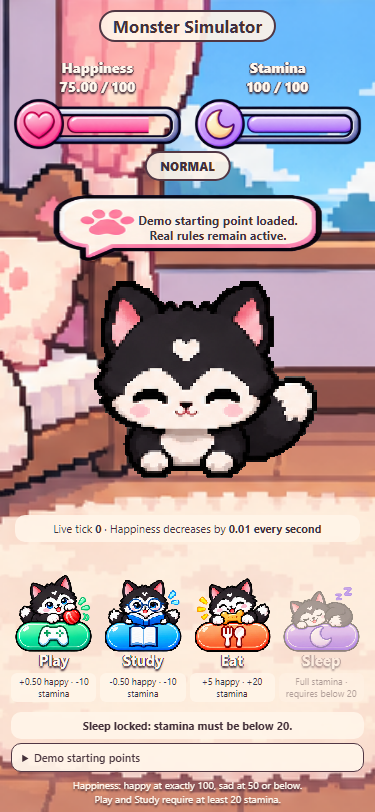
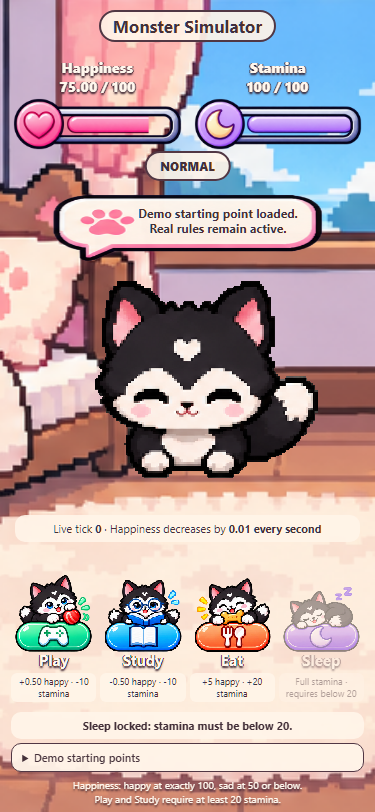
fix(ui): center speech text inside the bubble panel

diff --git a/style.css b/style.css
@@ -3,3 +3,5 @@
 details[open]{bottom:auto;top:43%;max-height:23%;overflow:auto}
 
 #pet{top:28%;height:33%}.decay{top:auto;bottom:270px}.actions small{background:#fff4e8e8;color:#443039;text-shadow:none;border-radius:6px;padding:2px;font-size:9px}#bubble{padding-left:78px}
+
+#bubble{padding-top:12px;padding-bottom:26px;text-align:center;justify-content:center;align-items:center;overflow-wrap:anywhere}

diff --git a/TODO.md b/TODO.md
@@ -9,3 +9,5 @@
 
 - [x] Match PocketPet layout and artwork for the four-action assignment.
 - [x] Center the pup on its body instead of the full tail-inclusive frame.
+
+- [x] Center speech text in the bubble panel while excluding its tail and paw icon.
